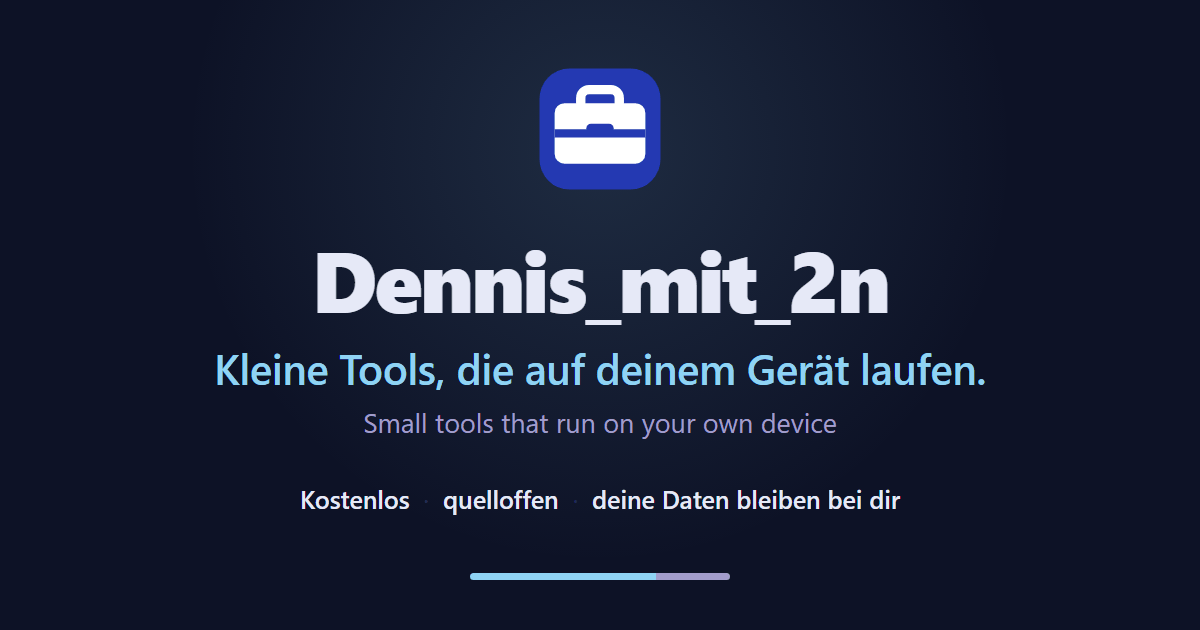
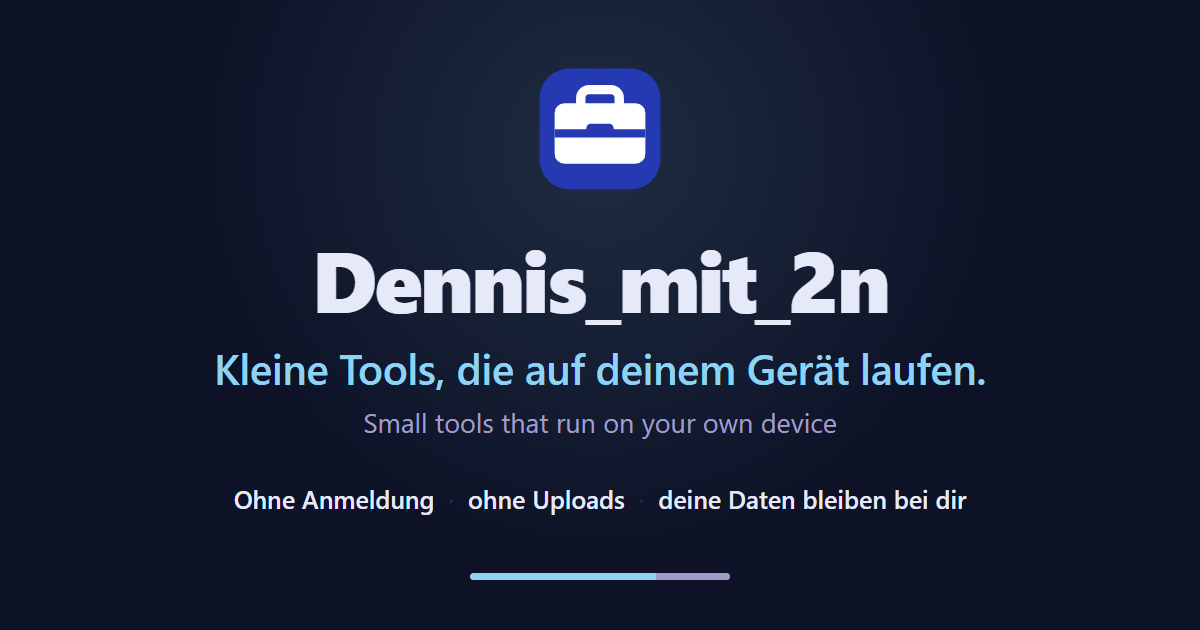
"Kostenlos" ist keine Aussage ueber die ganze Werkstatt mehr
Mit fontART stimmt der pauschale Satz nicht mehr: sieben Werkzeuge sind
kostenlos und quelloffen, das achte ist keins von beidem. Nachgezogen sind
alle Stellen, die ueber ALLE reden - Meta-Beschreibung, og:description,
og:image:alt beider Seiten und die README-Kopfzeilen. An den einzelnen
Kacheln bleibt "kostenlos" stehen, dort stimmt es ja.

Das Werbebild musste mit: auf assets/og.png stand "Kostenlos - quelloffen"
eingebrannt, und ein alt-Text, der etwas anderes sagt als das Bild, waere
fuer Blinde die falsche Beschreibung statt der richtigen Aussage. Die
Zusagenzeile des Marken-Auftritts heisst jetzt "Ohne Anmeldung - ohne
Uploads - deine Daten bleiben bei dir" - wahr fuer alle acht, und ohnehin
die staerkere Zusage. Dabei zwei Zahlen mitkorrigiert, die seit Zaehlwerk
falsch waren: "Sechs kleine Werkzeuge" (acht) und "Fuenf im Browser, eines
fuer Windows" (sechs und zwei).

marke.mjs im Launchkit war eine zweite, aeltere Quelle (ohne den Ticker) -
sie ist jetzt eine Kopie dieser hier.

Changed region(s): [[0.185, 0.7841, 0.8017, 0.8143]]

diff --git a/index.html b/index.html
@@ -4,7 +4,10 @@
   <meta charset="UTF-8">
   <meta name="viewport" content="width=device-width, initial-scale=1">
   <title>Dennis_mit_2n · Small tools</title>
-  <meta name="description" content="Small free tools by Dennis_mit_2n – in your browser and for Windows. No sign-up, no uploads: your data stays on your device. / Kleine kostenlose Tools – im Browser und für Windows, ohne Anmeldung und ohne Uploads.">
+  <!-- "free" is no longer a blanket claim: fontART is the one tool whose full
+       version is meant to cost money. What holds for all of them is the part
+       that matters anyway — no account, nothing uploaded. -->
+  <meta name="description" content="Small tools by Dennis_mit_2n – in your browser and for Windows. No sign-up, no uploads: your data stays on your device. Most of them free and open source. / Kleine Tools – im Browser und für Windows, ohne Anmeldung und ohne Uploads. Die meisten kostenlos und quelloffen.">
   <link rel="canonical" href="https://dennismit2n.github.io/">
   <!-- Link preview. og:image must be absolute — crawlers do not resolve relative paths.
        Built by tools/promo/make-bilder.mjs, which also builds the preview images of the
@@ -12,12 +15,12 @@
   <meta property="og:type" content="website">
   <meta property="og:site_name" content="Dennis_mit_2n">
   <meta property="og:title" content="Dennis_mit_2n — small tools">
-  <meta property="og:description" content="A workshop of free tools that run on your own device – in your browser and for Windows. Your data stays with you.">
+  <meta property="og:description" content="A workshop of small tools that run on your own device – in your browser and for Windows. No sign-up, no uploads; your data stays with you.">
   <meta property="og:url" content="https://dennismit2n.github.io/">
   <meta property="og:image" content="https://dennismit2n.github.io/assets/og.png">
   <meta property="og:image:width" content="1200">
   <meta property="og:image:height" content="630">
-  <meta property="og:image:alt" content="Dennis_mit_2n — kleine Tools, die auf deinem Gerät laufen / Small tools that run on your own device. Kostenlos, quelloffen.">
+  <meta property="og:image:alt" content="Dennis_mit_2n — kleine Tools, die auf deinem Gerät laufen / Small tools that run on your own device. Ohne Anmeldung, ohne Uploads.">
   <meta property="og:locale" content="en_US">
   <meta property="og:locale:alternate" content="de_DE">
   <meta name="twitter:card" content="summary_large_image">

diff --git a/werkstatt.html b/werkstatt.html
@@ -14,7 +14,7 @@
   <meta property="og:image" content="https://dennismit2n.github.io/assets/og.png">
   <meta property="og:image:width" content="1200">
   <meta property="og:image:height" content="630">
-  <meta property="og:image:alt" content="Dennis_mit_2n — kleine Tools, die auf deinem Gerät laufen / Small tools that run on your own device. Kostenlos, quelloffen.">
+  <meta property="og:image:alt" content="Dennis_mit_2n — kleine Tools, die auf deinem Gerät laufen / Small tools that run on your own device. Ohne Anmeldung, ohne Uploads.">
   <meta property="og:locale" content="en_US">
   <meta property="og:locale:alternate" content="de_DE">
   <meta name="twitter:card" content="summary_large_image">

diff --git a/README.md b/README.md
@@ -1,8 +1,8 @@
 # dennismit2n.github.io
 
-Landing page for the small tools by Dennis_mit_2n — in your browser and for Windows, free, no sign-up, no uploads. Your data stays on your device.
+Landing page for the small tools by Dennis_mit_2n — in your browser and for Windows, no sign-up, no uploads. Your data stays on your device. Most of them are free and open source; fontART is the exception.
 
-Startseite für die kleinen Tools von Dennis_mit_2n — im Browser und für Windows, kostenlos, ohne Anmeldung, ohne Uploads. Deine Daten bleiben auf deinem Gerät.
+Startseite für die kleinen Tools von Dennis_mit_2n — im Browser und für Windows, ohne Anmeldung, ohne Uploads. Deine Daten bleiben auf deinem Gerät. Die meisten kostenlos und quelloffen; fontART ist die Ausnahme.
 
 **➡ [dennismit2n.github.io](https://dennismit2n.github.io/)**
 
